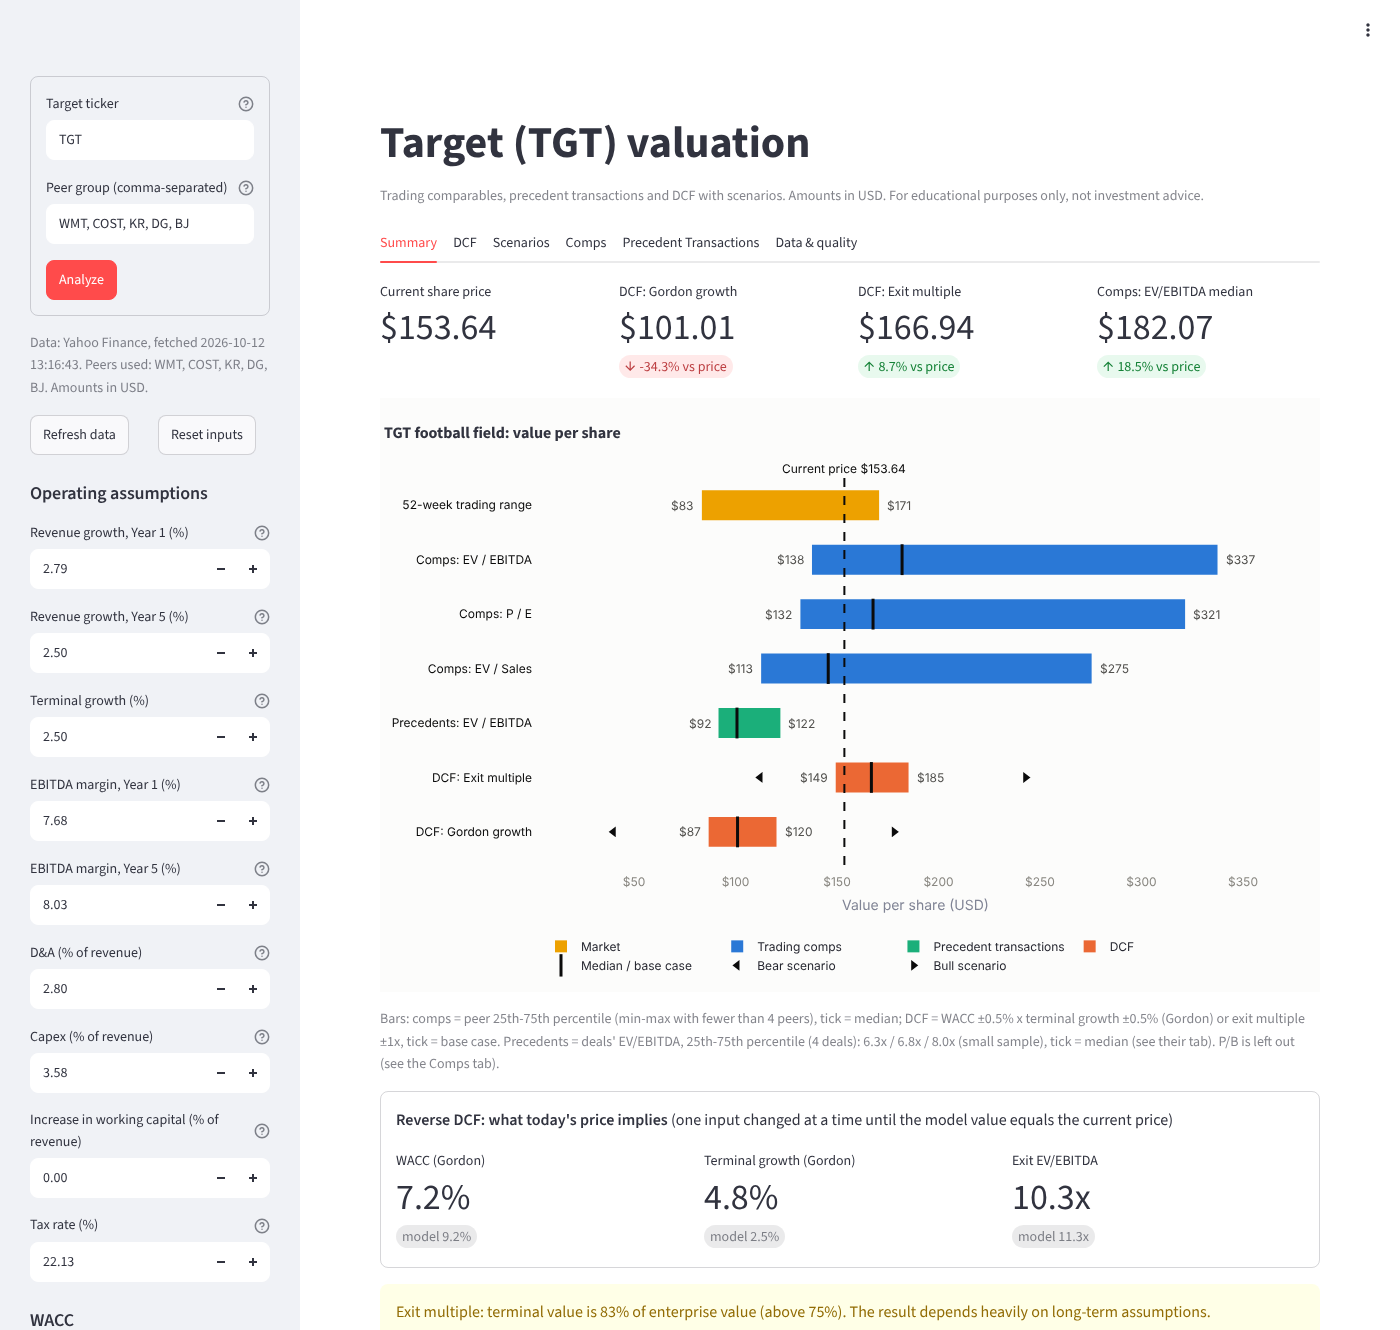
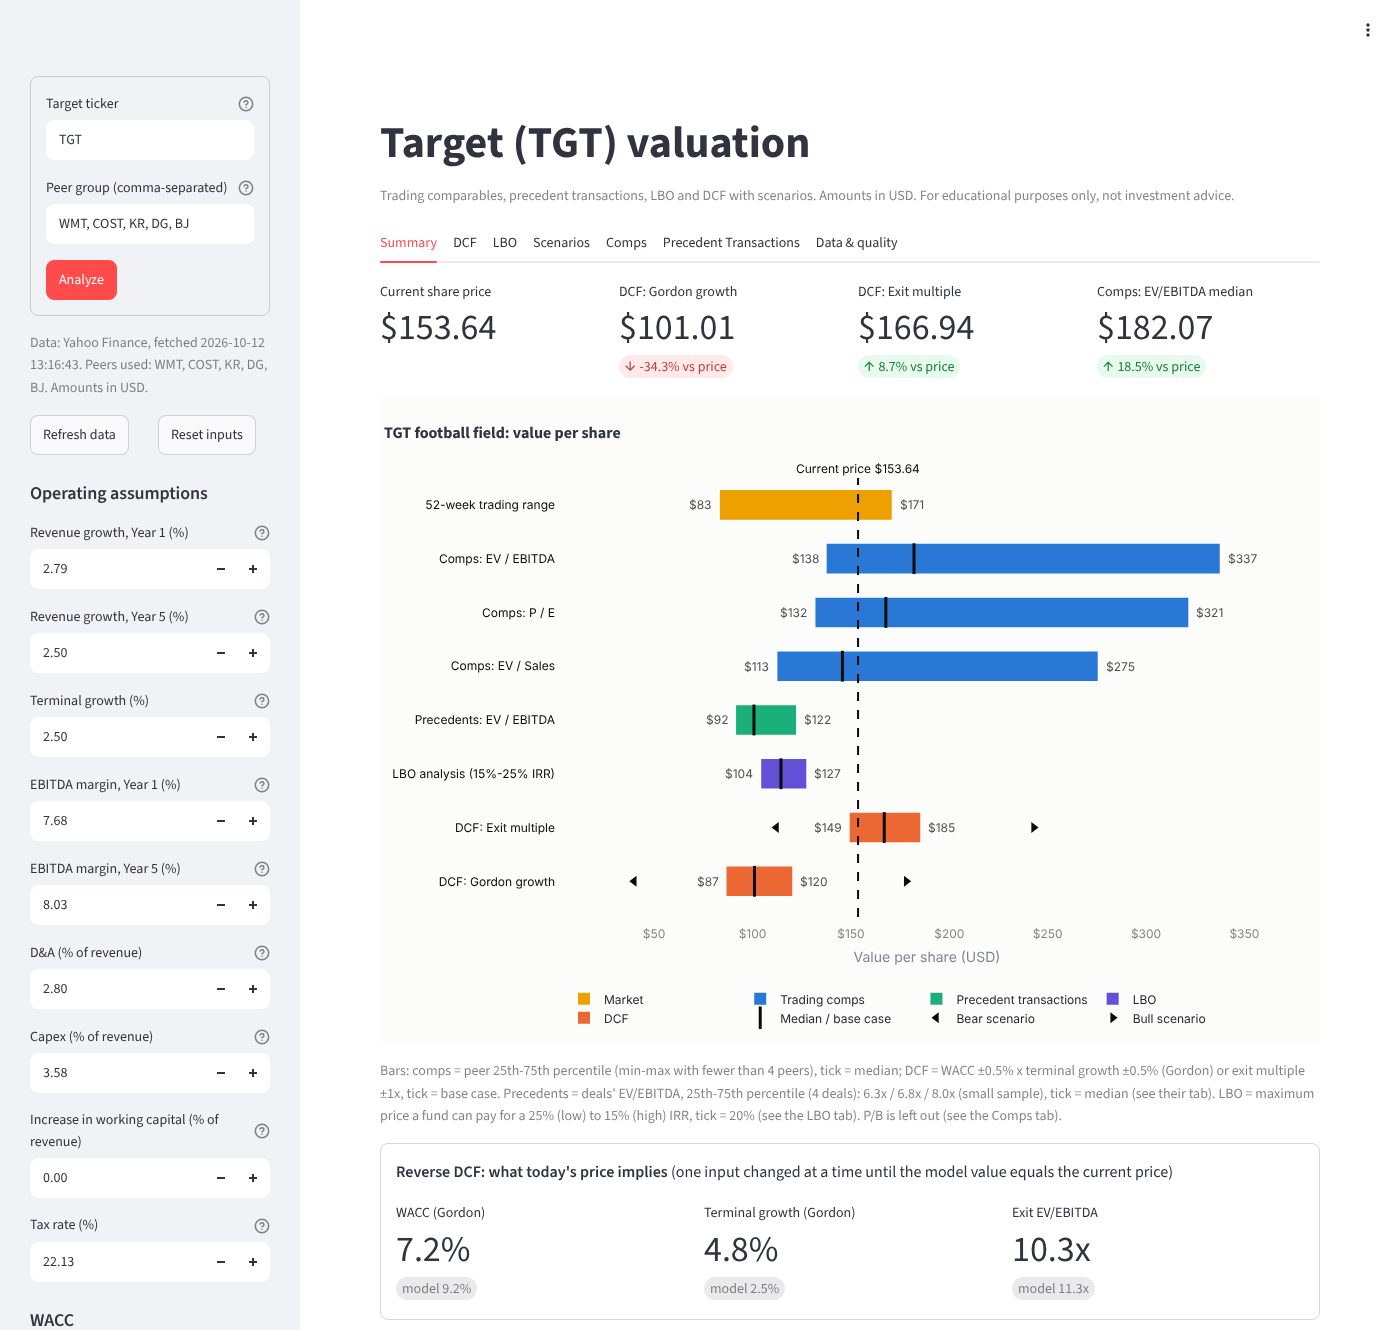
Stage L3: README LBO section, four-method summary, subtitle, snapshot
- README: LBO method, illustrative assumptions, simplifications, Target
  results, interest rate and leverage effects; four methods side by
  side in the commentary; status, tabs, Excel and structure updated.
- App subtitle mentions the LBO.
- Snapshot: 13-week T-bill (^IRX) for the LBO's fallback data.
- Refreshed docs/screenshot.png.

Claude-Session: https://claude.ai/code/session_01FhG6DK6yRLPsUg8o1PKo21

diff --git a/app.py b/app.py
@@ -398,7 +398,7 @@ pstats = comps.peer_stats(mtable, PEERS)
 price = tv["price"]
 
 st.title(f"{NAME} ({TARGET}) valuation")
-st.caption(f"Trading comparables, precedent transactions and DCF with scenarios. Amounts in {CCY}. For educational purposes only, not investment advice.")
+st.caption(f"Trading comparables, precedent transactions, LBO and DCF with scenarios. Amounts in {CCY}. For educational purposes only, not investment advice.")
 
 for note in selection_notes:
     st.info(note)

diff --git a/README.md b/README.md
@@ -1,23 +1,23 @@
-# US Retail Valuation: Comps, Precedent Transactions + DCF
+# US Retail Valuation: Comps, Precedent Transactions, LBO + DCF
 
 **Live app:** [tgt-valuation.streamlit.app](https://tgt-valuation.streamlit.app/)
 
-_Interactive valuation of Target (NYSE: TGT) using comparable companies, precedent transactions and a DCF with Bear / Base / Bull scenarios, with a football field summary and a linked Excel model. Built as a learning project by an IB Diploma student interested in investment banking._
+_Interactive valuation of Target (NYSE: TGT) using comparable companies, precedent transactions, an LBO analysis and a DCF with Bear / Base / Bull scenarios, with a football field summary and a linked Excel model. Built as a learning project by an IB Diploma student interested in investment banking._
 
 ---
 
 A valuation tool for **Target (TGT)**, benchmarked against **Walmart (WMT), Costco (COST),
 Kroger (KR), Dollar General (DG) and BJ's Wholesale Club (BJ)**.
 It combines a trading-comparables analysis, precedent transactions (what acquirers paid for
-similar US retailers) and a discounted cash flow (DCF) model with Bear / Base / Bull scenarios,
-and summarises them in a "football field" chart, the way an investment banking pitch book would.
+similar US retailers), a leveraged buyout (LBO) analysis (what a private equity fund could pay)
+and a discounted cash flow (DCF) model with Bear / Base / Bull scenarios, and summarises them in a "football field" chart, the way an investment banking pitch book would.
 Any other listed company can be analysed by typing its ticker and peers in the app.
 
 > Built as a learning project by an IB Diploma student interested in economics, finance and
 > investment banking.
 
 ![App screenshot](docs/screenshot.png)
-*Summary tab: football field with comps, precedent transactions and DCF (Bear / Bull markers), DCF results and the reverse DCF box (data downloaded 12 October 2026; share prices are the 9 October close).*
+*Summary tab: football field with comps, precedent transactions, LBO and DCF (Bear / Bull markers), DCF results and the reverse DCF box (data downloaded 12 October 2026; share prices are the 9 October close).*
 
 ## Status
 
@@ -30,6 +30,7 @@ Any other listed company can be analysed by typing its ticker and peers in the a
 | A | Any company: ticker and peer selection, currencies, financial companies | Done |
 | B | Bear / Base / Bull scenarios and a probability-weighted value | Done |
 | C | Precedent transactions (EV/EBITDA) with SEC sources | Done |
+| L | LBO analysis: sources & uses, debt schedule, IRR / MOIC, maximum price, Excel sheet | Done |
 
 ## Methodology
 
@@ -46,7 +47,12 @@ Any other listed company can be analysed by typing its ticker and peers in the a
   counting lease liabilities as debt as well would count rent twice. Yahoo does not separate
   finance from operating leases, so small finance leases are excluded too.
 - **Risk-free rate**: the 10-year US Treasury yield (`^TNX`), downloaded live for USD; for other
-  currencies it is entered by hand. The country risk premium defaults to 0 for the US.
+  currencies it is entered by hand. The country risk premium defaults to 0 for the US. The LBO
+  also uses the 13-week Treasury bill yield (`^IRX`) as a proxy for SOFR.
+- **Leases missing from Yahoo**: some balance sheets (e.g. Apple's) have no lease line. If
+  Yahoo's debt lines with and without leases are equal, its total debt holds no leases and 0 is
+  subtracted (with a note); otherwise the value stays N/A. Fields Yahoo does not deliver are
+  listed in a warning at the top of the app, with what shows N/A because of them.
 - **Manual overrides**: any value can be replaced in `data/manual_overrides.csv`
   (with a source note). Every value is tagged as `auto`, `manual`, `derived` or `missing`.
   TTM values adjusted for a one-off record the quarter that contains the one-off and the
@@ -104,21 +110,21 @@ Any other listed company can be analysed by typing its ticker and peers in the a
 - A warning is shown when the terminal value is more than 75% of enterprise value.
 
 ### App, football field and Excel export (Stage 4)
-- **Streamlit app** (`app.py`) with six tabs: Summary, DCF, Scenarios, Comps, Precedent
+- **Streamlit app** (`app.py`) with seven tabs: Summary, DCF, LBO, Scenarios, Comps, Precedent
   Transactions, Data & quality. Every DCF and
   WACC assumption is in the sidebar, with its default and the history it comes from in the help
   text. Revenue growth and the EBITDA margin are set by a start (Year 1) and an end (Year 5)
   value; an optional year-by-year table overrides individual years.
 - **Football field**, top to bottom: 52-week trading range, comps EV/EBITDA, P/E and EV/Sales
   (peer 25th-75th percentile, tick at the median), precedent transactions EV/EBITDA (when they
-  apply, see Stage C), DCF exit multiple and DCF Gordon growth (WACC ±0.5% x exit multiple ±1x or
+  apply, see Stage C), LBO (maximum price for a 25% to 15% IRR, tick at 20%), DCF exit multiple and DCF Gordon growth (WACC ±0.5% x exit multiple ±1x or
   terminal growth ±0.5%, tick at the base case, triangles at the Bear and Bull values), with the
-  current price as a dashed vertical line. **P/B is left out** of the chart (it stays in the
+  current price as a dashed vertical line (the axis always includes the price). **P/B is left out** of the chart (it stays in the
   comps tables with a note): a retailer's value comes from its cash flows, not from the
   assets on its balance sheet, and share buybacks shrink book equity and inflate P/B.
 - **Reverse DCF box**: the WACC, terminal growth and exit multiple implied by today's price.
-- **Excel export** (`export.py`, also the download button in the app). The **DCF and WACC
-  and Scenarios sheets are live formulas**: inputs are blue on yellow, and changing one updates
+- **Excel export** (`export.py`, also the download button in the app). The **DCF, WACC,
+  Scenarios and LBO sheets are live formulas**: inputs are blue on yellow, and changing one updates
   the value per share. The other sheets (Summary, Sensitivity, Comps, Bridge, Precedents, Market
   data, Data quality, History) hold values from the moment of export. A test recalculates the workbook with
   LibreOffice and checks that Excel and Python agree to 9 significant digits.
@@ -187,6 +193,71 @@ it was not found in a primary source.
   matches the deals in the calculation, or for Target, for whom the list was selected. Other
   companies can upload their own CSV in the app (template provided; used for that session only).
 
+### LBO analysis (Stage L)
+**Question:** if a private equity fund (the *sponsor*) bought Target with mostly borrowed money,
+what is the most it could pay per share and still earn its target return? The fund puts in
+equity, borrows the rest against EBITDA, uses the cash flow to repay debt and sells after five
+years. Code: `lbo.py`; app: LBO tab; Excel: LBO sheet (live formulas, IRR via Excel's `IRR()`).
+
+- **Operations** come from the DCF projection of the chosen scenario (default Base): no second
+  set of operating assumptions. Taxes are recalculated after interest.
+- **Entry**: current price + 25% premium (or an entry EV/EBITDA multiple). Entry EV = offer price
+  x shares + net debt. For Target: $192.05 per share, EV $97.7bn = 11.8x TTM EBITDA ($8.27bn).
+- **Sources and uses** (Target, $bn): uses = purchase of equity 87.25, repay existing debt 15.86,
+  transaction fees 1.47, financing fees 0.83 (total 105.40); sources = Term Loan B 24.80,
+  Senior Notes 16.53, existing cash above the minimum 3.26, sponsor equity 60.81 (58%).
+- **Debt** (all terms are *illustrative assumptions*, editable; no market source is claimed):
+
+  | Tranche | Size | Rate | Repayment | Maturity |
+  |---|---|---|---|---|
+  | Term Loan B | 3.0x EBITDA | floating: `^IRX` 4.05% (SOFR proxy) + 3.25% | 1% a year + cash sweep | 7 years |
+  | Senior Notes | 2.0x EBITDA | fixed: 10-year Treasury 5.24% + 3.50% | at maturity | 8 years |
+
+  Fees: 1.5% of entry EV (transaction), 2% of new debt (financing). Minimum cash: 2% of revenue.
+- **Cash flow**: free cash flow after interest and tax pays the required repayments; cash above
+  the minimum repays the Term Loan B early (*cash sweep*). Interest is charged on the debt at the
+  start of each year, so there is no circular reference in Excel.
+- **Interest deduction (US section 163(j))**, simplified: deductible interest is capped at 30% of
+  EBITDA and the excess is ignored (in reality it carries forward).
+- **Exit**: Year 5 at Target's **current trading EV/EBITDA (9.7x)**, not the entry multiple. The
+  entry multiple includes the 25% premium, so exiting there assumes the fund sells above today's
+  market value; sponsors usually underwrite more cautiously. Exit at the entry multiple is shown
+  in the sensitivity table.
+- **Returns**: MOIC = equity out / equity in; IRR = the yearly return that turns one into the other.
+- **Maximum price**: with the exit multiple fixed, nothing after closing depends on the price (the
+  debt is sized on EBITDA), so the price only changes the sponsor's cheque and can be solved
+  directly: equity needed = exit equity / (1 + IRR)^5. The exit multiple stays fixed here on
+  purpose: tying it to the entry price would let a higher price raise its own sale price.
+- **Credit checks**: a warning when EBITDA / interest falls below 2x or total debt is above 6x
+  EBITDA (the level the US bank regulators' *Interagency Guidance on Leveraged Lending*, 2013,
+  says raises concerns for most industries), and when interest exceeds the 163(j) cap.
+- **Feasibility**: compared with the largest sponsor buyouts on record: Electronic Arts (2025,
+  EV ~$55bn, equity ~$36bn, $20bn debt; [EA 8-K Ex.99.1](https://www.sec.gov/Archives/edgar/data/712515/000114036125036415/ef20056167_ex99-1.htm))
+  and TXU (2007, $45bn; [TXU 8-K Ex.99.1](https://www.sec.gov/Archives/edgar/data/1023291/000095013407004081/d44014exv99w1.htm)).
+- **Simplifications**: no revolving credit facility and no interest on cash; taxes never negative
+  and no loss carryforward; fees not amortised; no management options, dividends or dividend
+  recaps; the sponsor owns 100%; no tax or fees at exit; base rates flat for five years.
+
+**Target results.** At a 25% premium the fund would earn an IRR of **0.5%** (MOIC 1.02x): the
+debt falls only from $41.3bn to $35.8bn in five years, because capex (~$4bn a year) and interest
+(~$3bn) absorb most of the cash flow, and the exit at 9.7x is below the 11.8x paid. The most a
+fund could pay is **$104 / $114 / $127 per share for a 25% / 20% / 15% IRR**, all below today's
+$153.64. Interest is 30-38% of EBITDA, so the 163(j) cap applies every year. The deal would be
+1.8x the largest sponsor buyout on record: read the result as a valuation yardstick (what a
+financial buyer could justify), not as a realistic deal.
+
+*Interest rates.* Two points lower base rates raise the 20% IRR price only from $114 to $118:
+debt is sized as a multiple of EBITDA, so cheaper debt saves interest (~$0.65bn a year after
+tax) but does not change how much is borrowed. The larger effect works through *debt capacity*:
+lenders size debt by interest coverage. At today's rates 6x debt leaves coverage of 2.2x, close
+to the 2x floor; with rates two points lower the same 6x leaves 3.0x. More cheap debt in place
+of 20%-return equity is what lifts the price ($122 at 6x today, $126 at 6x with lower rates).
+
+*Leverage cuts both ways.* At the 25% premium, more debt *lowers* the IRR (4x: 1.3%, 7x: -2.4% at
+a 9.7x exit): leverage only helps when the business returns more than the debt costs, and buying
+at 11.8x and selling at 9.7x does not. At the lower maximum price it does, which is why 6x
+debt raises that price.
+
 ### Data quality checks
 Missing fields, zero or negative EBITDA, losses (P/E excluded), negative equity, price outside
 the 52-week range, price × shares vs market cap, our EV vs Yahoo's EV, reporting currency,
@@ -194,7 +265,7 @@ and stale annual statements.
 
 ## Valuation commentary
 *Figures from the data downloaded on 12 October 2026 (price $153.64 at the 9 October close, 10-year
-Treasury 5.24%); they move with the data.*
+Treasury 5.24%, 13-week T-bill 4.05%); they move with the data.*
 
 ### One-off items (manual overrides)
 Two one-offs distort the trailing twelve months, and neither is removed by Yahoo's
@@ -259,6 +330,22 @@ sensitivity tables show how the value moves with WACC. The honest reading is tha
 today's interest rates, the market price needs either a lower required return or more
 growth/margin recovery than Target's recent history shows.
 
+### Four methods side by side
+| Method | Value per share | Based on |
+|---|---|---|
+| DCF, Gordon growth | ~$101 | Target's own cash flows at our WACC |
+| Precedent transactions (median) | ~$101 | what acquirers paid for comparable retailers |
+| LBO (20% IRR) | ~$114 | what a financial buyer could pay with today's financing costs |
+| DCF, exit multiple | ~$167 | today's peer multiples, applied in five years |
+| Comps EV/EBITDA (median) | ~$182 | today's peer multiples |
+
+The three methods that rest on Target's own cash flow or on what buyers actually paid meet in a
+cautious zone around $100-$115, about a quarter or more below the $153.64 price. The two that rest
+on today's peer multiples sit above the price, because Walmart and Costco pull the peer median up.
+So the market price only makes sense if Target is valued more like its premium peers than its own
+cash flows justify at today's interest rates, or if margins and growth recover beyond its recent
+history.
+
 ### Why leases are excluded from enterprise value (ASC 842)
 Under US GAAP (ASC 842) operating lease costs (store rent) stay in operating expenses, so
 EBITDA is already *after* rent. Lease liabilities are on the balance sheet and Yahoo includes
@@ -300,6 +387,9 @@ EBITDAR, i.e. before rent) is also consistent, but Yahoo does not report rent fo
   tables, some on an adjusted basis, and advisors do not always agree (Staples: 5.0x at Morgan
   Stanley, 6.0x at Goldman Sachs). Whether the deals apply is
   decided from Yahoo's industry label, which is coarse (Target is "Discount Stores").
+- **LBO**: the debt terms, fees and minimum cash are illustrative assumptions, not market quotes;
+  `^IRX` is only a proxy for SOFR, and rates are held flat. See the simplifications in the LBO
+  section.
 
 ## Project structure
 ```
@@ -311,7 +401,8 @@ summary.py             football field data, reverse DCF, app inputs -> model
 charts.py              Plotly charts (football field, sensitivity heatmap, scenarios)
 scenarios.py           Bear / Base / Bull scenarios and the probability-weighted value
 precedents.py          precedent transactions: loading, filters, EV/EBITDA range
-export.py              Excel export (DCF, WACC and Scenarios as live formulas)
+lbo.py                 LBO: sources & uses, debt schedule, IRR / MOIC, maximum price
+export.py              Excel export (DCF, WACC, Scenarios and LBO as live formulas)
 app.py                 Streamlit app
 data/manual_overrides.csv
 data/precedents.csv    precedent transactions with SEC sources
